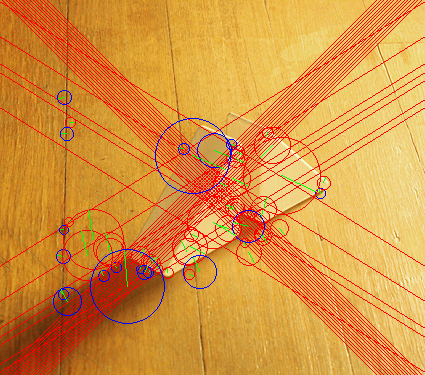
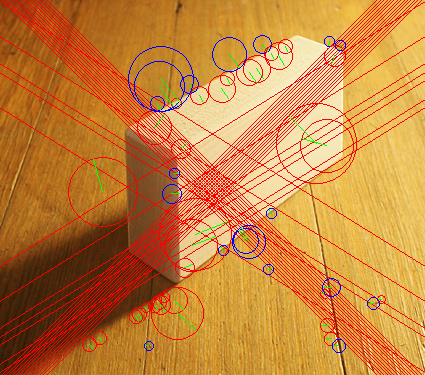
Posit now doing something... wrong, but something

diff --git a/VisualStudioProjects/accord/positTest.cs b/VisualStudioProjects/accord/positTest.cs
@@ -14,66 +14,16 @@ namespace accord
     
     class PositTest
     {
-        String input = "../../block2.jpg";//test image
+        String input = "../../block.jpg";//test image
         String outputHough = "../../hough.jpg";//output of hough transform
         String outputSURF = "../../surf.jpg";//output of surf features
         String outputHarris = "../../harris.jpg";//output of Harris corners        
-        String outputCombo = "../../combo.jpg";//all outputs overlayed
+        String outputCombo = "../../combo.jpg";//surf and hough
+        String outputCombo2 = "../../all.jpg";//all
 
-        //harris corner detector
-        public void doHarris()
-        {
-            Bitmap image, combo;
-            try
-            {
-                image = (Bitmap)System.Drawing.Image.FromFile(input);
-                combo = (Bitmap)System.Drawing.Image.FromFile(outputCombo);
-
-            }
-            catch (System.IO.FileNotFoundException e)
-            { throw new System.IO.FileNotFoundException("file not found"); }
-
-            HarrisCornersDetector harrisDetect = new HarrisCornersDetector();
-            List < Accord.IntPoint > corners = harrisDetect.ProcessImage(image);
-            PointsMarker points = new PointsMarker(corners);
-            points.MarkerColor = Color.Red;
-            Bitmap cornerImg = points.Apply(image);
-            cornerImg.Save(outputHarris);
-            Bitmap comboImg = points.Apply(combo);
-            comboImg.Save(outputCombo);
-        }
-
-        //surf feature detector
-        public void doSurf()
-        {
-            Bitmap image, hough;
-            try
-            {
-                image = (Bitmap)System.Drawing.Image.FromFile(input);
-                hough = (Bitmap)System.Drawing.Image.FromFile(outputHough);
-
-            }
-            catch (System.IO.FileNotFoundException e)
-            { throw new System.IO.FileNotFoundException("file not found"); }
-            //default vals, TODO: find how parameters affect features
-            float thresh = (float)0.000200;
-            int octaves = 5;
-            int initial = 2;
-
-            SpeededUpRobustFeaturesDetector surf = new SpeededUpRobustFeaturesDetector(thresh, octaves, initial);
-            List<SpeededUpRobustFeaturePoint> points = surf.ProcessImage(image);
-
-            //SURF feature set
-            FeaturesMarker features = new FeaturesMarker(points);
-            //just SURF features
-            Bitmap edited1 = features.Apply(image);
-            edited1.Save(outputSURF);
-            //Hough and SURF
-            Bitmap edited2 = features.Apply(hough);
-            edited2.Save(outputCombo);
-        }
-
-        //do hough transform
+        /**
+         *  do hough transform
+         **/
         public void houghTrans()
         {//TODO: hough circles for cylinder detection
             Bitmap image, grayImage;
@@ -139,30 +89,130 @@ namespace accord
             umImage.ToManagedImage().Save(outputHough);
         }
 
-        //basic posit estimation
-        public void runPosit(Vector3[] model, float fl)
+        /** 
+         * harris corner detector
+         **/
+        public List<Accord.IntPoint> doHarris()
+        {
+            Bitmap image, combo;
+            try
+            {
+                image = (Bitmap)System.Drawing.Image.FromFile(input);
+                combo = (Bitmap)System.Drawing.Image.FromFile(outputCombo);
+
+            }
+            catch (System.IO.FileNotFoundException e)
+            { throw new System.IO.FileNotFoundException("file not found"); }
+
+            HarrisCornersDetector harrisDetect = new HarrisCornersDetector();
+            List < Accord.IntPoint > corners = harrisDetect.ProcessImage(image);
+            PointsMarker points = new PointsMarker(corners);
+            points.MarkerColor = Color.Black; points.Width = 4;
+            Bitmap cornerImg = points.Apply(image);
+            cornerImg.Save(outputHarris);
+            Bitmap comboImg = points.Apply(combo);
+            comboImg.Save(outputCombo2);
+
+            return corners;
+        }
+
+        /**
+         * surf feature detector
+         **/
+        public List<SpeededUpRobustFeaturePoint> doSurf()
+        {
+            Bitmap image, hough;
+            try
+            {
+                image = (Bitmap)System.Drawing.Image.FromFile(input);
+                hough = (Bitmap)System.Drawing.Image.FromFile(outputHough);
+
+            }
+            catch (System.IO.FileNotFoundException e)
+            { throw new System.IO.FileNotFoundException("file not found"); }
+            //default vals, TODO: find how parameters affect features
+            float thresh = (float)0.000200;
+            int octaves = 5;
+            int initial = 2;
+
+            SpeededUpRobustFeaturesDetector surf = new SpeededUpRobustFeaturesDetector(thresh, octaves, initial);
+            List<SpeededUpRobustFeaturePoint> points = surf.ProcessImage(image);
+
+            //SURF feature set
+            FeaturesMarker features = new FeaturesMarker(points);
+            //just SURF features
+            Bitmap edited1 = features.Apply(image);
+            edited1.Save(outputSURF);
+            //Hough and SURF
+            Bitmap edited2 = features.Apply(hough);
+            edited2.Save(outputCombo);
+
+            return points;
+        }
+
+
+        /** 
+         * Combination of techniques to get interest points for POSIT
+         **/
+        public List<Accord.Point> getPoints()
+        {
+            List<Accord.Point> interestPoints = new List<Accord.Point>(); 
+            List<Accord.IntPoint> cornerPoints = doHarris();
+            List <SpeededUpRobustFeaturePoint> surfPoints = doSurf();
+            int index=0;
+
+            for (int x = 0; x < surfPoints.Count; x++) { System.Console.WriteLine(surfPoints[x].Response+"\n"); }
+
+            double thresh = 2.5;//SURF response threshold
+
+            //for every harris point
+            for (int i=0; i<cornerPoints.ToArray().Length; i++)
+            {
+                //check for surf features near it w/ a respoinse above a certain threshold
+                for (int j = 0; j < surfPoints.ToArray().Length; j++)
+                {
+                    if (Math.Abs(cornerPoints[i].X - surfPoints[j].X) <= 8 && Math.Abs(cornerPoints[i].Y - surfPoints[j].Y) <= 8)
+                    {
+                        if (surfPoints[j].Scale >= thresh)//should be response but i'm getting zeros for whatever reason
+                        {
+                            interestPoints.Insert(index,cornerPoints[i]); index++;
+                        }
+                    }
+                }
+            }
+
+            return interestPoints;
+        }
+
+        /** 
+         * basic posit estimation
+         **/
+        public float[] runPosit(Vector3[] model, float fl)
         {//TODO: account for other object types/scales
             //POSIT object
             Posit posit = new Posit(model, fl);
 
-            //projection points of the cube (this is what we want to generate)
-            Accord.Point[] projectedPoints = new Accord.Point[4]
+            List<Accord.Point> interestPoints = getPoints();
+            if (interestPoints == null)
             {
-            new Accord.Point(-4,29),
-            new Accord.Point(-180,86),
-            new Accord.Point(-5,-102),
-            new Accord.Point(76,137),
-            };
+                System.Console.WriteLine("ERR (POSIT): no points found");
+                System.Console.ReadLine();
+                return null;
+            }
+            List<Accord.Point> positPoints;int[] indexes = {0,1,2,3};
+            positPoints = interestPoints.Get(indexes);//get the first four since posit only does four points... 
 
             //estimating pose
             Matrix3x3 rotation;
             Vector3 translation;
-            posit.EstimatePose(projectedPoints, out rotation, out translation);
+            posit.EstimatePose(positPoints.ToArray(), out rotation, out translation);
             System.Console.WriteLine("posit rotation:" + rotation.V00+","+rotation.V01 + "," + rotation.V02 + ",\n" 
                 + rotation.V10 + "," + rotation.V11 + "," + rotation.V12 + ",\n" 
                 + rotation.V20 + "," + rotation.V21 + "," + rotation.V22);
             System.Console.WriteLine("posit translation:" + translation);
             System.Console.ReadLine();
+            //will return list of doubles including rotation vals and translation vals length and object type[13] 
+            return rotation.ToArray().Concatenate(translation.ToArray().Concatenate(0));
         }
     }
 }

diff --git a/VisualStudioProjects/accord/treeRansacTest.cs b/VisualStudioProjects/accord/treeRansacTest.cs
@@ -394,10 +394,8 @@ namespace treeRansacTest
             
 //POSIT
 
-            //pTest.runPosit(model, fl);
-            pTest.houghTrans();
-            pTest.doSurf();
-            pTest.doHarris();
+            pTest.runPosit(model, fl);
+            
         }
     }
 }
